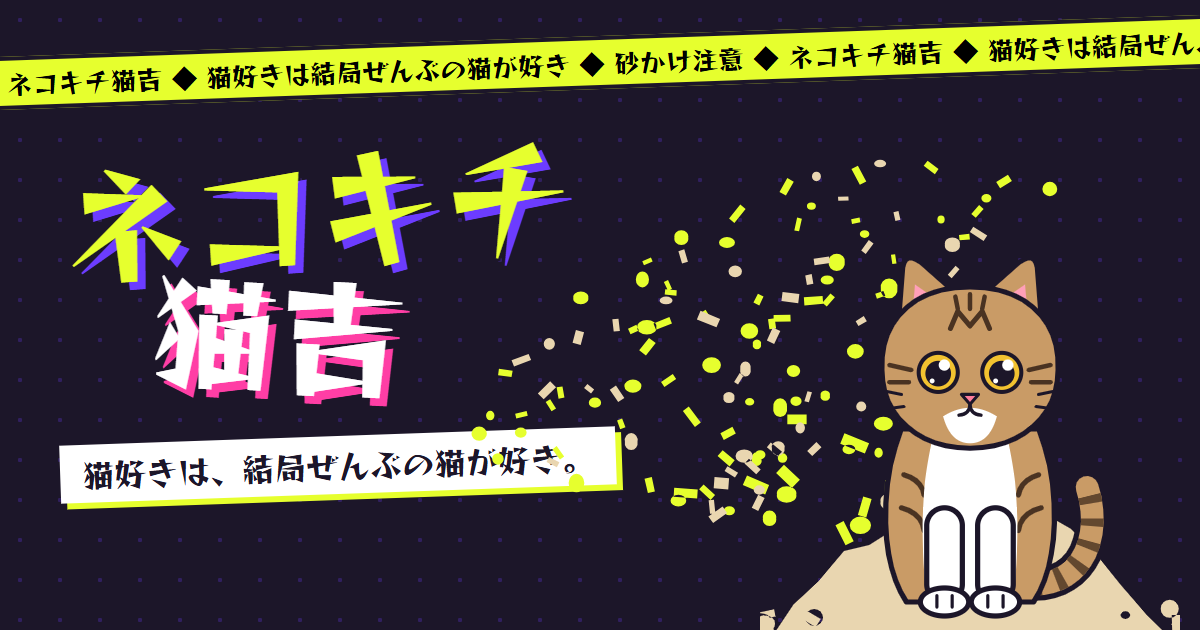
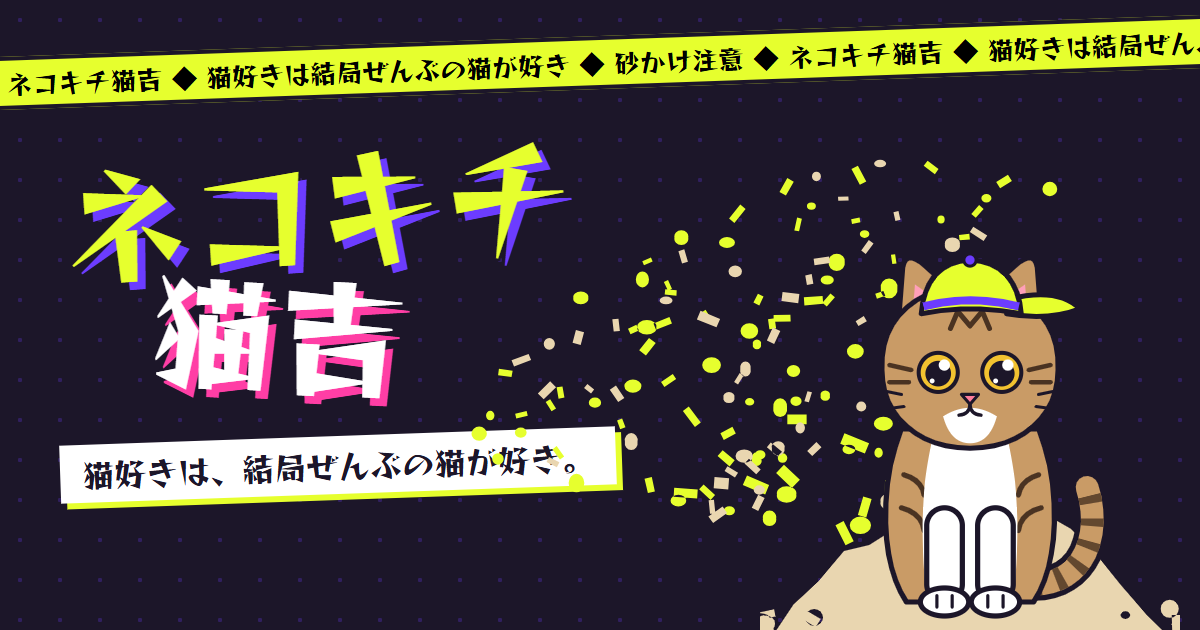
砂かけ猫の足の付け根の線を消す(胴体から生えて見えるように)、編集長にキャップ・蝶ネクタイ・ベスト

Changed region(s): [[0.74, 0.3921, 0.8942, 0.5127]]

diff --git a/src/data/cat-art.ts b/src/data/cat-art.ts
@@ -96,7 +96,13 @@ function ruff(a: Art, fill: string): string {
 }
 
 /** 顔(viewBox 0 0 200 190)。sticker で白ふち */
-export function faceGroup(a: Art, sticker = false): string {
+/** 編集長のキャップ(ネオンイエロー。つばは横向き。耳のあいだにかぶる) */
+const BOSS_CAP = `<g class="boss-cap"><path d="M132 50 Q172 40 190 58 Q164 68 130 62 Z" fill="#e6ff2e" stroke="#1c1629" stroke-width="5" stroke-linejoin="round"/><path d="M60 62 Q64 20 100 18 Q138 20 142 62 Q100 54 60 62 Z" fill="#e6ff2e" stroke="#1c1629" stroke-width="5" stroke-linejoin="round"/><path d="M62 56 Q100 46 140 56" fill="none" stroke="#6c3cff" stroke-width="8"/><circle cx="100" cy="18" r="5" fill="#6c3cff" stroke="#1c1629" stroke-width="3"/></g>`;
+
+/** 編集長だけの服装(キャップ・蝶ネクタイ・ベスト)を付けるかどうか */
+export type CatArt = Art & { boss?: boolean };
+
+export function faceGroup(a: CatArt, sticker = false): string {
   const c = COAT[a.coat];
   const s = `stroke="${K}" stroke-width="5" stroke-linejoin="round"`;
   const white = a.pattern === 'calico';
@@ -122,6 +128,7 @@ export function faceGroup(a: Art, sticker = false): string {
     ${a.hair === 'hairless' ? '' : marks(a, c)}
     ${hairless}${foldEar}
     ${a.ears === 'fold' ? `<path d="${el}" fill="${earFill}" ${s}/><path d="${er}" fill="${earFill}" ${s}/>` : ''}
+    ${a.boss ? BOSS_CAP : ''}
     <g class="eyes">${eyes(a, a.pattern === 'point' ? c.soft : headFill === WHITE ? '#eee' : c.soft)}</g>
     <path d="M93 128 L107 128 L100 136 Z" fill="${a.pattern === 'point' ? c.soft : '#ff7d9c'}" stroke="${K}" stroke-width="3" stroke-linejoin="round"/>
     <path d="M100 136 Q100 144 91 145 M100 136 Q100 144 109 145" fill="none" stroke="${K}" stroke-width="3.4" stroke-linecap="round"/>
@@ -132,9 +139,9 @@ export function faceGroup(a: Art, sticker = false): string {
 /** 線を少し細くする(週刊ラグドールより軽く) */
 const thin = (svg: string) => svg.replace(/stroke-width="([\d.]+)"/g, (_, w) => `stroke-width="${+(Number(w) * 0.82).toFixed(1)}"`);
 
-export const faceGroupThin = (a: Art, sticker = false) => thin(faceGroup(a, sticker));
+export const faceGroupThin = (a: CatArt, sticker = false) => thin(faceGroup(a, sticker));
 
-export function faceSvg(a: Art, label?: string, sticker = false): string {
+export function faceSvg(a: CatArt, label?: string, sticker = false): string {
   const aria = label ? `role="img" aria-label="${label}"` : 'aria-hidden="true"';
   return `<svg viewBox="-10 -16 220 206" ${aria} xmlns="http://www.w3.org/2000/svg" style="overflow:visible">${faceGroupThin(a, sticker)}</svg>`;
 }
@@ -173,7 +180,7 @@ export function bodySvg(a: Art, label?: string): string {
 }
 
 /** 編集長・猫吉(キジトラ白のオス) */
-export const NEKOKICHI: Art = { coat: 'brown', pattern: 'kiji', eye: 'gold', ears: 'normal', hair: 'short', expr: 'normal' };
+export const NEKOKICHI: CatArt = { coat: 'brown', pattern: 'kiji', eye: 'gold', ears: 'normal', hair: 'short', expr: 'normal', boss: true };
 
 export const PAW_SVG = `<svg viewBox="0 0 24 24" aria-hidden="true"><g fill="currentColor"><ellipse cx="12" cy="16" rx="5.2" ry="4.4"/><ellipse cx="5.6" cy="10.4" rx="2.3" ry="2.9"/><ellipse cx="9.4" cy="6.4" rx="2.3" ry="2.9"/><ellipse cx="14.6" cy="6.4" rx="2.3" ry="2.9"/><ellipse cx="18.4" cy="10.4" rx="2.3" ry="2.9"/></g></svg>`;
 
@@ -194,7 +201,7 @@ export const CROWD: { a: Art; x: number; y: number; s: number; r: number }[] = [
  *   .kf0 かまえ(後ろ足は体の下)/ .kf1 手前の後ろ足でけり上げ / .kf2 奥の後ろ足でけり上げ
  * 足の付け根は胴体の裏に隠し、足は先細りの形。頭は胸に重ねて首をつなげる。しっぽはご機嫌に真上。
  * 砂は、表示中のコマの .toe の位置から飛ばす(script 側) */
-export function kickCatSvg(a: Art, label?: string): string {
+export function kickCatSvg(a: CatArt, label?: string): string {
   const c = COAT[a.coat];
   const s = `stroke="${K}" stroke-width="5" stroke-linecap="round" stroke-linejoin="round"`;
   const base = a.pattern === 'tuxedo' ? COAT.black.body : c.body;
@@ -203,39 +210,67 @@ export function kickCatSvg(a: Art, label?: string): string {
   const pawC = white ? WHITE : base;
   const far = mixDark(base);
   const farPaw = mixDark(pawC);
+  const uid = Math.random().toString(36).slice(2, 7);
   const aria = label ? `role="img" aria-label="${label}"` : 'aria-hidden="true"';
-  // 先細りの足(付け根は胴体の裏に入る)+ 足先(指のすじ入り)
-  const leg = (d: string, fill: string) => `<path d="${d}" fill="${fill}" ${s}/>`;
+  // 足は「左右のふち」だけ線を引く(上のふちに線がないので、胴体から生えて見える)。足先を先に描き、足の色で足首の線を隠す
+  type Leg = { l: string; r: string; fill: string; color: string; foot: string };
   const foot = (cx: number, cy: number, rx: number, ry: number, rot: number, fill: string, cls = '') =>
-    `<g transform="rotate(${rot} ${cx} ${cy})"><ellipse class="${cls}" cx="${cx}" cy="${cy}" rx="${rx}" ry="${ry}" fill="${fill}" ${s}/><path d="M${cx - rx * .35} ${cy - ry * .2} v${ry * .7} M${cx + rx * .1} ${cy - ry * .25} v${ry * .7}" stroke="${K}" stroke-width="3" stroke-linecap="round"/></g>`;
-  // 後ろ足:かまえ(体の下にたたむ)と、けり上げ(かかとを伸ばして後ろ上へ)
-  const hindRest = (dx: number, fill: string, pf: string) =>
-    leg(`M${250 + dx} 176 C${262 + dx} 200 ${272 + dx} 222 ${268 + dx} 240 L${288 + dx} 242 C${294 + dx} 222 ${290 + dx} 196 ${282 + dx} 172 Z`, fill) + foot(282 + dx, 246, 20, 10, 0, pf);
-  const hindKick = (dx: number, dy: number, fill: string, pf: string, toe: string) =>
-    leg(`M${270 + dx} 164 C${310 + dx} 184 ${344 + dx} ${186 + dy} ${370 + dx} ${160 + dy} L${384 + dx} ${176 + dy} C${352 + dx} ${210 + dy} ${306 + dx} ${210 + dy} ${262 + dx} 198 Z`, fill) + foot(382 + dx, 164 + dy, 11, 19, -40, pf, toe);
-  const front = (x: number, fill: string, pf: string) =>
-    leg(`M${x} 176 C${x - 2} 204 ${x} 224 ${x + 2} 240 L${x + 22} 240 C${x + 26} 220 ${x + 28} 200 ${x + 30} 176 Z`, fill) + foot(x + 12, 245, 19, 10, 0, pf);
+    `<g transform="rotate(${rot} ${cx} ${cy})"><ellipse class="${cls}" cx="${cx}" cy="${cy}" rx="${rx}" ry="${ry}" fill="${fill}" ${s}/><path d="M${cx - rx * .35} ${cy - ry * .15} v${ry * .6} M${cx + rx * .15} ${cy - ry * .2} v${ry * .6}" stroke="${K}" stroke-width="3" stroke-linecap="round"/></g>`;
+  const draw = (g: Leg) => `${g.foot}<path d="${g.fill}" fill="${g.color}"/><path d="${g.l} ${g.r}" fill="none" ${s}/>`;
+  const front = (x: number, color: string, pf: string): Leg => ({
+    l: `M${x} 180 C${x - 2} 206 ${x} 224 ${x + 2} 240`,
+    r: `M${x + 30} 180 C${x + 28} 202 ${x + 26} 222 ${x + 22} 240`,
+    fill: `M${x} 180 C${x - 2} 206 ${x} 224 ${x + 2} 240 L${x + 22} 240 C${x + 26} 222 ${x + 28} 202 ${x + 30} 180 Z`,
+    color, foot: foot(x + 12, 245, 19, 10, 0, pf),
+  });
+  const hindRest = (dx: number, color: string, pf: string): Leg => ({
+    l: `M${250 + dx} 180 C${262 + dx} 202 ${272 + dx} 222 ${268 + dx} 240`,
+    r: `M${284 + dx} 176 C${291 + dx} 198 ${294 + dx} 222 ${288 + dx} 242`,
+    fill: `M${250 + dx} 180 C${262 + dx} 202 ${272 + dx} 222 ${268 + dx} 240 L${288 + dx} 242 C${294 + dx} 222 ${291 + dx} 198 ${284 + dx} 176 Z`,
+    color, foot: foot(282 + dx, 246, 20, 10, 0, pf),
+  });
+  const hindKick = (dx: number, dy: number, color: string, pf: string): Leg => ({
+    l: `M${270 + dx} 164 C${310 + dx} 184 ${344 + dx} ${186 + dy} ${370 + dx} ${160 + dy}`,
+    r: `M${262 + dx} 198 C${306 + dx} 210 ${352 + dx} ${210 + dy} ${384 + dx} ${176 + dy}`,
+    fill: `M${270 + dx} 164 C${310 + dx} 184 ${344 + dx} ${186 + dy} ${370 + dx} ${160 + dy} L${384 + dx} ${176 + dy} C${352 + dx} ${210 + dy} ${306 + dx} 210 ${262 + dx} 198 Z`,
+    color, foot: foot(382 + dx, 164 + dy, 11, 19, -40, pf, 'toe'),
+  });
+  const frontNear = front(104, white ? WHITE : base, pawC);
+  const frontFar = front(146, far, farPaw);
+  const FRAMES: Leg[][] = [
+    [hindRest(-24, far, farPaw), hindRest(0, base, pawC)],
+    [hindRest(-24, far, farPaw), hindKick(0, 0, base, pawC)],
+    [hindKick(-18, 14, far, farPaw), hindRest(0, base, pawC)],
+  ];
   const tail = `M318 146 C336 120 338 78 330 42 C326 26 334 16 344 22`;
   const body = `M92 200 C78 176 80 136 106 116 C130 98 190 104 246 102 C300 100 330 128 326 166 C322 200 296 216 256 216 L140 216 C114 216 98 210 92 200 Z`;
+  // 胴体の輪郭線は、足が生えているところだけ消す(マスク)。コマごとに足の位置が違うのでコマごとに作る
+  const masks = FRAMES.map((legs, f) => `<mask id="km${f}-${uid}" maskUnits="userSpaceOnUse" x="-40" y="-40" width="480" height="360"><rect x="-40" y="-40" width="480" height="360" fill="#fff"/>${[frontNear, frontFar, ...legs].map((g) => `<path d="${g.fill}" fill="#000"/>`).join('')}</mask>`).join('');
+  const vest = a.boss ? `<g clip-path="url(#kb-${uid})">
+      <path d="M150 90 L238 90 L250 230 L176 230 C156 190 146 140 150 90 Z" fill="#6c3cff"/>
+      <path d="M238 90 L250 230" stroke="#e6ff2e" stroke-width="7"/>
+      <path d="M150 90 C146 140 156 190 176 230" fill="none" stroke="#e6ff2e" stroke-width="7"/>
+      <circle cx="206" cy="148" r="15" fill="#e6ff2e" stroke="${K}" stroke-width="4"/>
+      <text x="206" y="154" text-anchor="middle" font-size="17" font-weight="900" fill="${K}" font-family="sans-serif">長</text>
+    </g>` : '';
+  const bow = a.boss ? `<g class="boss-bow"><path d="M108 150 L86 138 L88 164 Z M112 150 L134 138 L132 164 Z" fill="#ff3ea5" stroke="${K}" stroke-width="4" stroke-linejoin="round"/><circle cx="110" cy="151" r="7" fill="#ff3ea5" stroke="${K}" stroke-width="4"/></g>` : '';
   return thin(`<svg viewBox="0 0 400 280" ${aria} xmlns="http://www.w3.org/2000/svg" style="overflow:visible">
+    <defs>${masks}<clipPath id="kb-${uid}"><path d="${body}"/></clipPath></defs>
     <g class="kc-tail">
       <path d="${tail}" fill="none" stroke="${K}" stroke-width="30" stroke-linecap="round"/>
       <path d="${tail}" fill="none" stroke="${base}" stroke-width="20" stroke-linecap="round"/>
       ${striped ? `<path d="${tail}" fill="none" stroke="${c.mark}" stroke-width="20" stroke-dasharray="6 13" opacity=".85"/>` : ''}
     </g>
-    <g class="kf kf0">${hindRest(-24, far, farPaw)}</g>
-    <g class="kf kf1">${hindRest(-24, far, farPaw)}</g>
-    <g class="kf kf2">${hindKick(-18, 14, far, farPaw, 'toe')}</g>
-    ${front(146, far, farPaw)}
-    <g class="kf kf0">${hindRest(0, base, pawC)}</g>
-    <g class="kf kf1">${hindKick(0, 0, base, pawC, 'toe')}</g>
-    <g class="kf kf2">${hindRest(0, base, pawC)}</g>
-    ${front(104, white ? WHITE : base, pawC)}
-    <path d="${body}" fill="${base}" ${s}/>
+    ${FRAMES.map((legs, f) => `<g class="kf kf${f}">${draw(legs[0])}${draw(legs[1])}</g>`).join('')}
+    ${draw(frontFar)}${draw(frontNear)}
+    <path d="${body}" fill="${base}"/>
     ${white ? `<path d="M96 196 C88 172 92 146 108 132 C124 160 150 190 206 214 L140 214 C114 214 100 208 96 196 Z" fill="${WHITE}"/>` : ''}
     ${striped ? `<g fill="none" stroke="${c.mark}" stroke-width="6" stroke-linecap="round"><path d="M176 104 q8 20 -2 40 M208 102 q9 22 -1 44 M240 104 q8 20 0 42 M276 108 q8 20 -2 38 M304 124 q6 16 -4 30"/></g>` : ''}
+    ${vest}
+    ${FRAMES.map((_, f) => `<path class="kf kf${f}" d="${body}" fill="none" ${s} mask="url(#km${f}-${uid})"/>`).join('')}
     <path d="M296 146 C312 164 316 192 302 210" fill="none" stroke="${K}" stroke-width="4" stroke-linecap="round" opacity=".5"/>
     <g class="kc-head" transform="translate(34 18) scale(.74)">${faceGroup({ ...a, expr: a.expr === 'normal' ? 'smug' : a.expr })}</g>
+    ${bow}
   </svg>`);
 }
 
